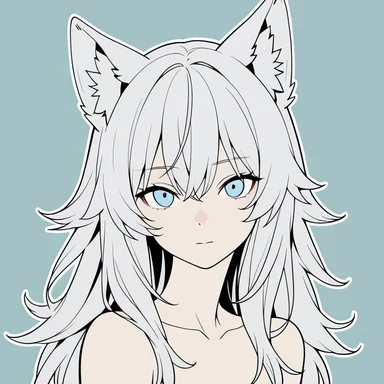
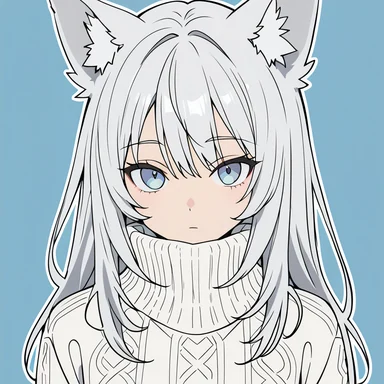
役職イラストを女性キャラに統一し、CPUの投票を取り消した
CPUは人数合わせのための席なので、票を入れると
人間同士の勝負に無作為なノイズが混ざるだけだった。前のコミットの追加を戻す。

イラストは人狼・白狼・狂人・暗殺者を撮り直した。
狂人が怖すぎたため、ホラー寄りの語をネガティブでまとめて禁止し、
表情を「不気味な笑み」から「いたずらっぽい笑み」に振り直している。
露出は、ネガティブで消すより着せる物を指定するほうが安定する
（zipped up hoodie / high collar coat / knit sweater）。

diff --git a/server.js b/server.js
@@ -371,25 +371,6 @@ function votingPayload(room) {
     return { players: [...humanPlayers, ...comPlayers] };
 }
 
-/**
- * CPUの投票。議論に参加できない相手なので、読み合いはせず無作為に入れる。
- * 投票しないままだと「黙っているCPUに全員で入れて終わり」になり、
- * CPUを入れた試合が毎回同じ展開になってしまう。
- */
-function castCpuVotes(room) {
-    if (!room.gameSetup) return;
-    room.gameSetup.players
-        .filter(p => p.type === 'computer')
-        .forEach(cpu => {
-            const key = cpu.id || cpu.name;
-            if (room.votes[key] !== undefined) return;
-            const targets = validTargetsFor(room, key);
-            if (!targets.length) return;
-            const pick = targets[Math.floor(Math.random() * targets.length)];
-            room.votes[key] = pick.id || pick.name;
-        });
-}
-
 function processFinalResults(room) {
     const finalPlayers = room.gameSetup.players;
     const voteCounts = {};
@@ -627,8 +608,6 @@ io.on('connection', (socket) => {
 
         room.votingStarted = true;
         io.to(room.id).emit('startVoting', votingPayload(room));
-
-        castCpuVotes(room);
 
         // 暗殺で投票できる人が誰もいなくなっている場合、
         // 誰の投票も届かないため、ここで判定を起動しないと進行不能になる
